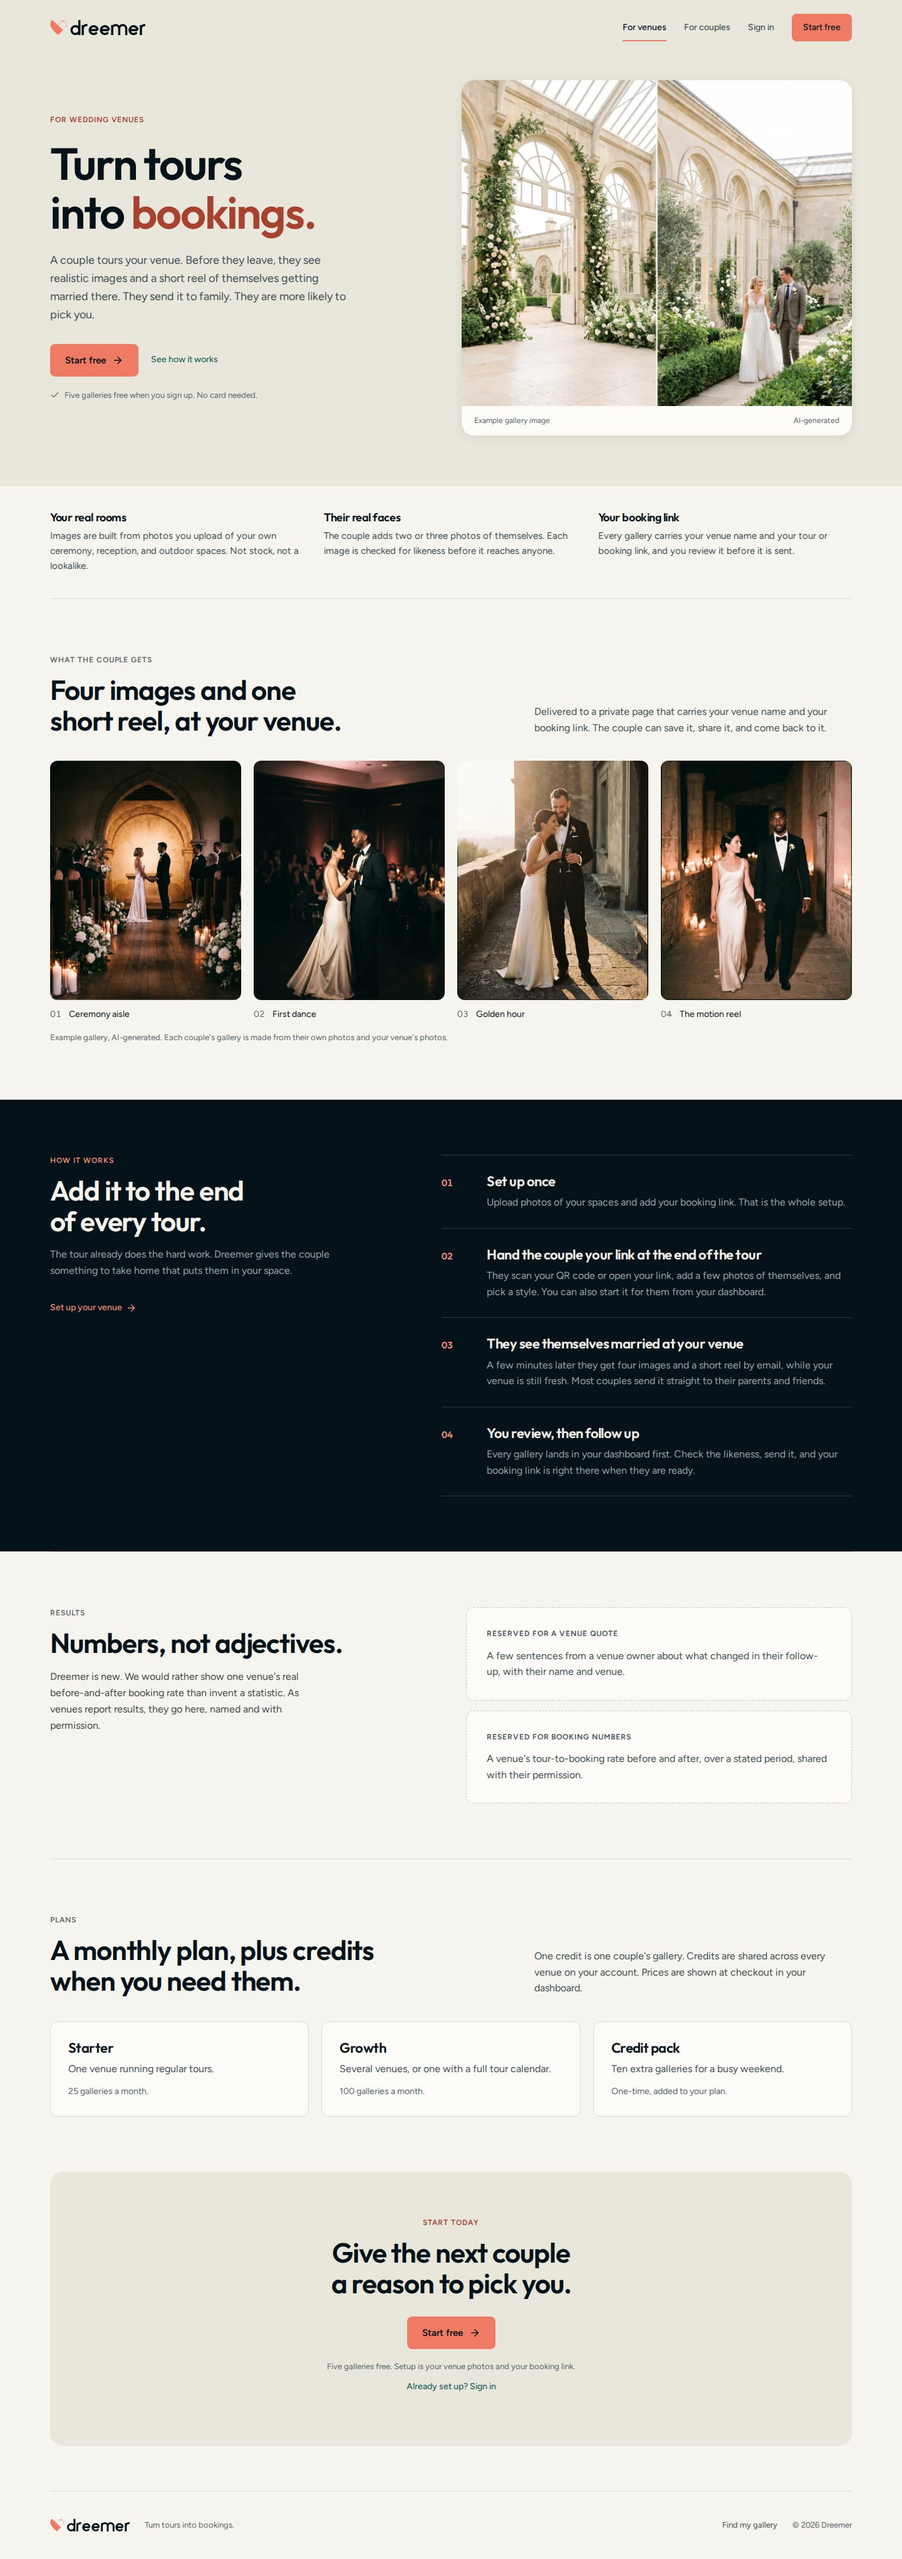
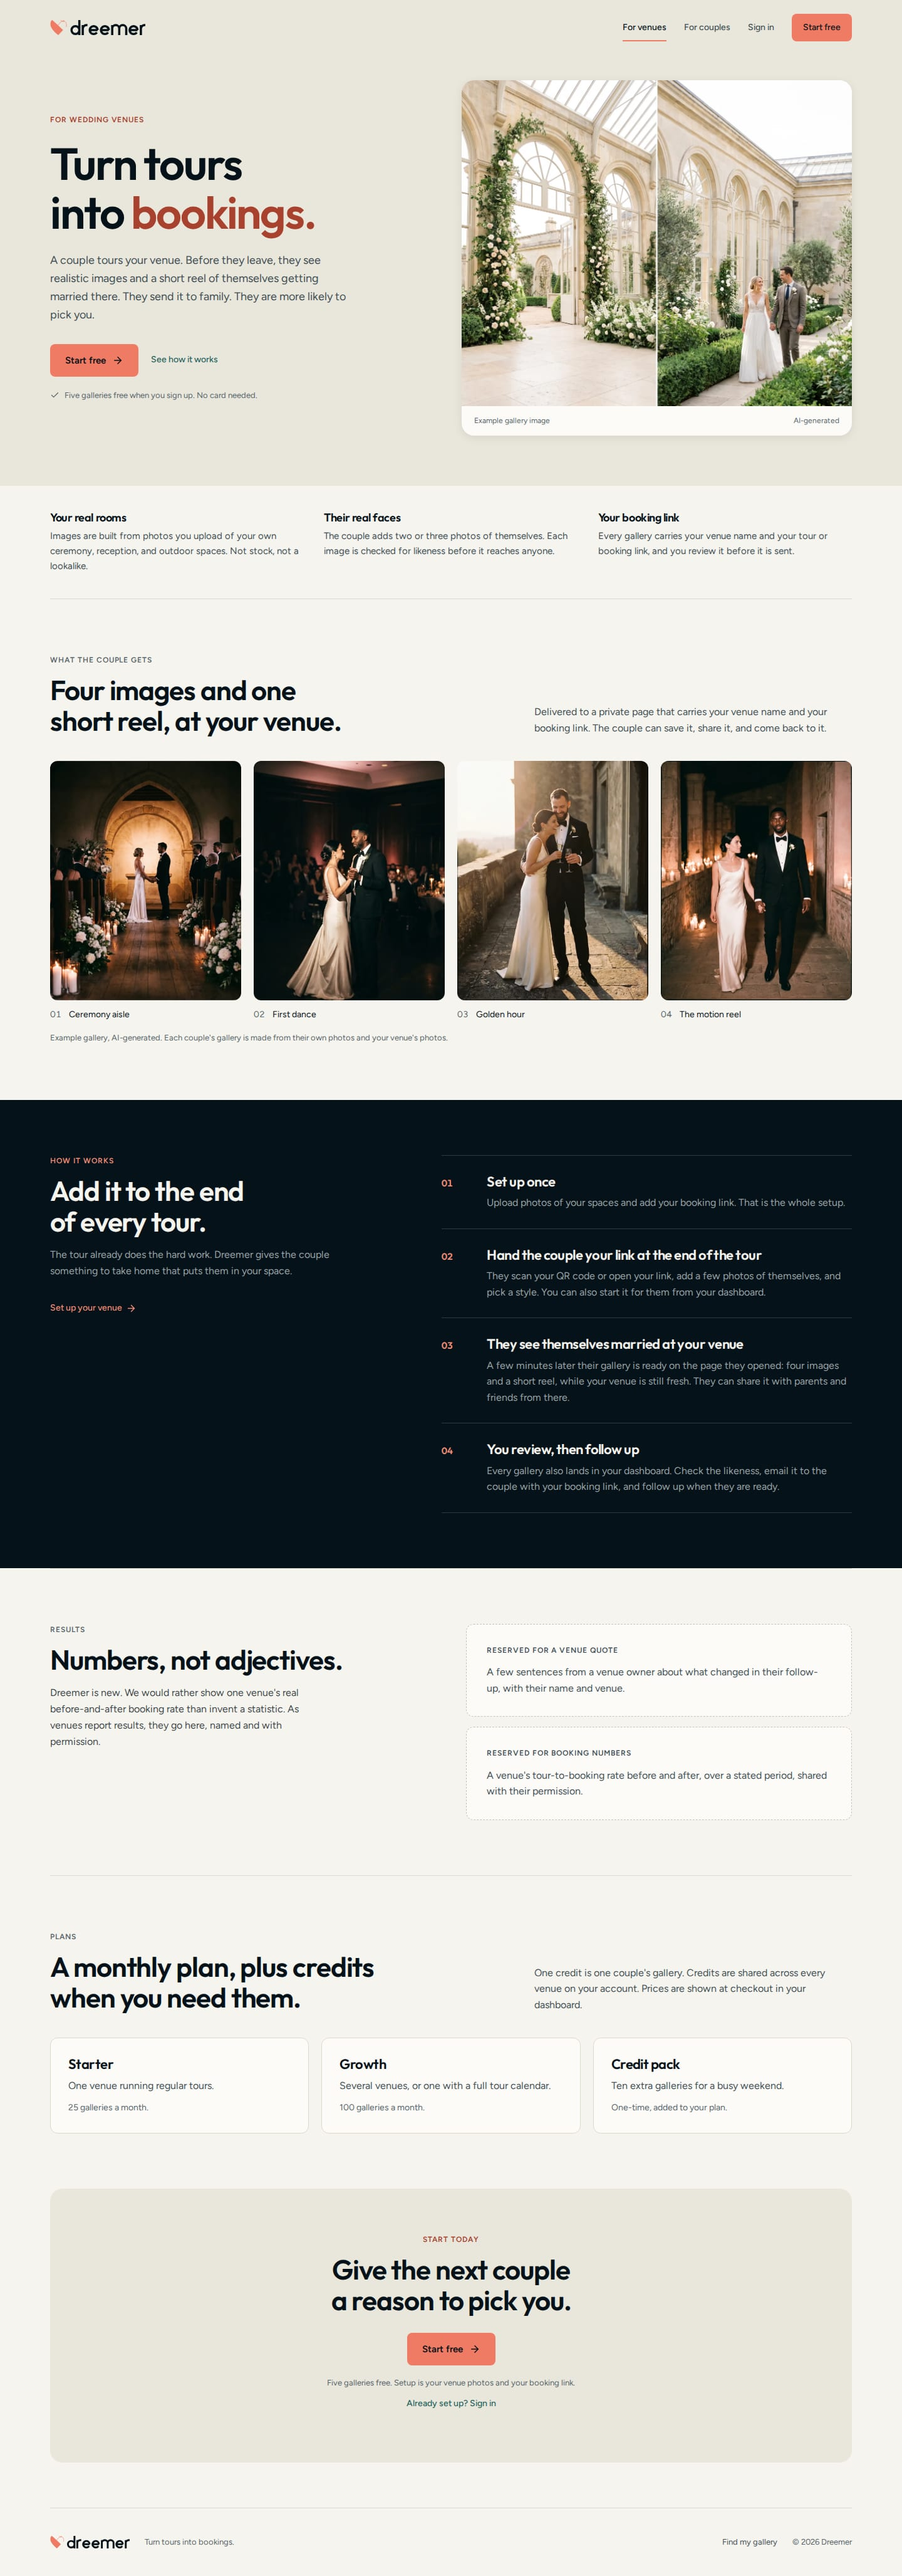
web: keep the landing page inside <main>; stop promising an automatic couple email
Galleries are never auto-sent to the couple (galleryGeneration.ts notifies
the venue owner only, who reviews and sends from the dashboard). The
processing screen, couple flow, couple entry, landing steps, and dashboard
copy now say so. The landing page's main landmark now wraps every
primary-content section, not just the hero. After screenshots retaken.

Claude-Session: https://claude.ai/code/session_01PtuXADma6S36rhr5WUnuBF

diff --git a/artifacts/wedding-app/src/pages/VenueLandingPage.tsx b/artifacts/wedding-app/src/pages/VenueLandingPage.tsx
@@ -39,11 +39,11 @@ const STEPS = [
   },
   {
     title: "They see themselves married at your venue",
-    body: "A few minutes later they get four images and a short reel by email, while your venue is still fresh. Most couples send it straight to their parents and friends.",
+    body: "A few minutes later their gallery is ready on the page they opened: four images and a short reel, while your venue is still fresh. They can share it with parents and friends from there.",
   },
   {
     title: "You review, then follow up",
-    body: "Every gallery lands in your dashboard first. Check the likeness, send it, and your booking link is right there when they are ready.",
+    body: "Every gallery also lands in your dashboard. Check the likeness, email it to the couple with your booking link, and follow up when they are ready.",
   },
 ] as const;
 
@@ -82,7 +82,9 @@ export default function VenueLandingPage() {
     <div className="site-page">
       <div className="hero-band">
         <SiteHeader />
-        <main id="main-content">
+      </div>
+      <main id="main-content">
+        <div className="hero-band">
           <section className="venue-hero page-width">
             <div className="hero-copy">
               <p className="eyebrow">For wedding venues</p>
@@ -92,10 +94,9 @@ export default function VenueLandingPage() {
                 into <em>bookings.</em>
               </h1>
               <p className="hero-description">
-                A couple tours your venue. Before they leave, they see
-                realistic images and a short reel of themselves getting
-                married there. They send it to family. They are more likely
-                to pick you.
+                A couple tours your venue. Before they leave, they see realistic
+                images and a short reel of themselves getting married there.
+                They send it to family. They are more likely to pick you.
               </p>
               <div className="action-row">
                 <Link
@@ -128,144 +129,160 @@ export default function VenueLandingPage() {
               </figcaption>
             </figure>
           </section>
-        </main>
-      </div>
-
-      <section className="value-strip page-width" aria-label="What makes it work">
-        <div>
-          {VALUE_POINTS.map((point) => (
-            <div key={point.title}>
-              <h3>{point.title}</h3>
-              <p>{point.body}</p>
-            </div>
-          ))}
         </div>
-      </section>
 
-      <section id="experience" className="page-width section">
-        <div className="section-heading">
+        <section
+          className="value-strip page-width"
+          aria-label="What makes it work"
+        >
           <div>
-            <p className="eyebrow">What the couple gets</p>
-            <h2>Four images and one short reel, at your venue.</h2>
-          </div>
-          <p>
-            Delivered to a private page that carries your venue name and your
-            booking link. The couple can save it, share it, and come back to
-            it.
-          </p>
-        </div>
-        <div className="sample-gallery">
-          {GALLERY_FRAMES.map((frame, i) => (
-            <figure key={frame.index}>
-              <img
-                src={frame.src}
-                alt={frame.alt}
-                loading="lazy"
-                width="600"
-                height="750"
-              />
-              <figcaption>
-                <span>0{i + 1}</span>
-                {frame.label}
-              </figcaption>
-            </figure>
-          ))}
-        </div>
-        <p className="caption">
-          Example gallery, AI-generated. Each couple's gallery is made from
-          their own photos and your venue's photos.
-        </p>
-      </section>
-
-      <section id="how-it-works" className="ink-section">
-        <div className="how-section page-width">
-          <div>
-            <p className="eyebrow">How it works</p>
-            <h2>Add it to the end of every tour.</h2>
-            <p className="mt-4 max-w-md text-base leading-relaxed">
-              The tour already does the hard work. Dreemer gives the couple
-              something to take home that puts them in your space.
-            </p>
-            <Link href="/create-venue" className="text-link mt-6">
-              Set up your venue <ArrowRight size={17} />
-            </Link>
-          </div>
-          <ol className="journey-list">
-            {STEPS.map((step, i) => (
-              <li key={step.title}>
-                <span>0{i + 1}</span>
-                <div>
-                  <h3>{step.title}</h3>
-                  <p>{step.body}</p>
-                </div>
-              </li>
-            ))}
-          </ol>
-        </div>
-      </section>
-
-      <section className="proof-section page-width" aria-labelledby="proof-heading">
-        <div className="proof-grid">
-          <div>
-            <p className="eyebrow">Results</p>
-            <h2 id="proof-heading">Numbers, not adjectives.</h2>
-            <p className="mt-4 max-w-md text-base leading-relaxed text-foreground/80">
-              Dreemer is new. We would rather show one venue's real
-              before-and-after booking rate than invent a statistic. As venues
-              report results, they go here, named and with permission.
-            </p>
-          </div>
-          <div className="grid gap-4">
-            {PROOF_SLOTS.map((slot) => (
-              <div key={slot.label} className="proof-slot">
-                <p className="eyebrow">{slot.label}</p>
-                <p>{slot.body}</p>
+            {VALUE_POINTS.map((point) => (
+              <div key={point.title}>
+                <h3>{point.title}</h3>
+                <p>{point.body}</p>
               </div>
             ))}
           </div>
-        </div>
-      </section>
+        </section>
 
-      <section className="plans-section page-width" aria-labelledby="plans-heading">
-        <div className="section-heading">
-          <div>
-            <p className="eyebrow">Plans</p>
-            <h2 id="plans-heading">A monthly plan, plus credits when you need them.</h2>
+        <section id="experience" className="page-width section">
+          <div className="section-heading">
+            <div>
+              <p className="eyebrow">What the couple gets</p>
+              <h2>Four images and one short reel, at your venue.</h2>
+            </div>
+            <p>
+              Delivered to a private page that carries your venue name and your
+              booking link. The couple can save it, share it, and come back to
+              it.
+            </p>
           </div>
-          <p>
-            One credit is one couple's gallery. Credits are shared across every
-            venue on your account. Prices are shown at checkout in your
-            dashboard.
+          <div className="sample-gallery">
+            {GALLERY_FRAMES.map((frame, i) => (
+              <figure key={frame.index}>
+                <img
+                  src={frame.src}
+                  alt={frame.alt}
+                  loading="lazy"
+                  width="600"
+                  height="750"
+                />
+                <figcaption>
+                  <span>0{i + 1}</span>
+                  {frame.label}
+                </figcaption>
+              </figure>
+            ))}
+          </div>
+          <p className="caption">
+            Example gallery, AI-generated. Each couple's gallery is made from
+            their own photos and your venue's photos.
           </p>
-        </div>
-        <ul>
-          {PLANS.map((plan) => (
-            <li key={plan.name}>
-              <h3>{plan.name}</h3>
-              <p>{plan.body}</p>
-              <p>{plan.detail}</p>
-            </li>
-          ))}
-        </ul>
-      </section>
+        </section>
 
-      <section className="start-section page-width">
-        <p className="eyebrow">Start today</p>
-        <h2>Give the next couple a reason to pick you.</h2>
-        <Link
-          href="/create-venue"
-          className="action-primary"
-          data-testid="venue-trial-register"
+        <section id="how-it-works" className="ink-section">
+          <div className="how-section page-width">
+            <div>
+              <p className="eyebrow">How it works</p>
+              <h2>Add it to the end of every tour.</h2>
+              <p className="mt-4 max-w-md text-base leading-relaxed">
+                The tour already does the hard work. Dreemer gives the couple
+                something to take home that puts them in your space.
+              </p>
+              <Link href="/create-venue" className="text-link mt-6">
+                Set up your venue <ArrowRight size={17} />
+              </Link>
+            </div>
+            <ol className="journey-list">
+              {STEPS.map((step, i) => (
+                <li key={step.title}>
+                  <span>0{i + 1}</span>
+                  <div>
+                    <h3>{step.title}</h3>
+                    <p>{step.body}</p>
+                  </div>
+                </li>
+              ))}
+            </ol>
+          </div>
+        </section>
+
+        <section
+          className="proof-section page-width"
+          aria-labelledby="proof-heading"
         >
-          Start free <ArrowRight size={18} />
-        </Link>
-        <p className="caption">
-          Five galleries free. Setup is your venue photos and your booking link.
-        </p>
-        <Link href="/login" className="text-link" data-testid="venue-trial-sign-in">
-          Already set up? Sign in
-        </Link>
-      </section>
+          <div className="proof-grid">
+            <div>
+              <p className="eyebrow">Results</p>
+              <h2 id="proof-heading">Numbers, not adjectives.</h2>
+              <p className="mt-4 max-w-md text-base leading-relaxed text-foreground/80">
+                Dreemer is new. We would rather show one venue's real
+                before-and-after booking rate than invent a statistic. As venues
+                report results, they go here, named and with permission.
+              </p>
+            </div>
+            <div className="grid gap-4">
+              {PROOF_SLOTS.map((slot) => (
+                <div key={slot.label} className="proof-slot">
+                  <p className="eyebrow">{slot.label}</p>
+                  <p>{slot.body}</p>
+                </div>
+              ))}
+            </div>
+          </div>
+        </section>
+
+        <section
+          className="plans-section page-width"
+          aria-labelledby="plans-heading"
+        >
+          <div className="section-heading">
+            <div>
+              <p className="eyebrow">Plans</p>
+              <h2 id="plans-heading">
+                A monthly plan, plus credits when you need them.
+              </h2>
+            </div>
+            <p>
+              One credit is one couple's gallery. Credits are shared across
+              every venue on your account. Prices are shown at checkout in your
+              dashboard.
+            </p>
+          </div>
+          <ul>
+            {PLANS.map((plan) => (
+              <li key={plan.name}>
+                <h3>{plan.name}</h3>
+                <p>{plan.body}</p>
+                <p>{plan.detail}</p>
+              </li>
+            ))}
+          </ul>
+        </section>
+
+        <section className="start-section page-width">
+          <p className="eyebrow">Start today</p>
+          <h2>Give the next couple a reason to pick you.</h2>
+          <Link
+            href="/create-venue"
+            className="action-primary"
+            data-testid="venue-trial-register"
+          >
+            Start free <ArrowRight size={18} />
+          </Link>
+          <p className="caption">
+            Five galleries free. Setup is your venue photos and your booking
+            link.
+          </p>
+          <Link
+            href="/login"
+            className="text-link"
+            data-testid="venue-trial-sign-in"
+          >
+            Already set up? Sign in
+          </Link>
+        </section>
+      </main>
       <SiteFooter />
     </div>
   );

diff --git a/artifacts/wedding-app/src/pages/VenueOwnerPage.tsx b/artifacts/wedding-app/src/pages/VenueOwnerPage.tsx
@@ -491,7 +491,7 @@ function DashboardInner() {
     if (!/^[^\s@]+@[^\s@]+\.[^\s@]+$/.test(coupleEmail.trim())) {
       toast({
         title: "Couple email required",
-        description: "This is where Dreemer sends the finished gallery.",
+        description: "You’ll email the finished gallery to this address.",
         variant: "destructive",
       });
       return;
@@ -533,7 +533,7 @@ function DashboardInner() {
           onSuccess: () => {
             toast({
               title: "Gallery started",
-              description: "We’ll email the couple when it’s ready to view.",
+              description: "We’ll email you when it’s ready to review.",
             });
             resetCoupleIntake();
             void dashboard.refetch();
@@ -878,8 +878,8 @@ function DashboardInner() {
                   Create a couple’s gallery
                 </h2>
                 <p className="mt-2 text-sm leading-relaxed text-muted-foreground">
-                  Add the couple’s email and two or three photos of them. We
-                  email their private link when the gallery is ready.
+                  Add the couple’s email and two or three photos of them. When
+                  it’s ready, review it here and email them their private link.
                 </p>
               </div>
 

diff --git a/artifacts/wedding-app/src/pages/CouplePage.tsx b/artifacts/wedding-app/src/pages/CouplePage.tsx
@@ -406,7 +406,7 @@ function VenueShowcase({ venue, onNext }: VenueShowcaseProps) {
         </p>
         <p className="text-sm">
           Add a few photos, pick a style, and get four images and a short reel
-          by email in a few minutes.
+          in a few minutes.
         </p>
         <Button onClick={onNext} data-testid="visualize-cta">
           Start our gallery <ArrowRight />
@@ -777,8 +777,8 @@ function StyleStep({
               Four images and a short reel
             </div>
             <div className="text-base text-muted-foreground leading-relaxed">
-              Made at this venue from your photos, sent to your email. Usually
-              ready in a few minutes.
+              Made at this venue from your photos. Usually ready in a few
+              minutes, right on this page.
             </div>
           </div>
         </div>

diff --git a/artifacts/wedding-app/src/pages/GallerySharePage.tsx b/artifacts/wedding-app/src/pages/GallerySharePage.tsx
@@ -277,7 +277,7 @@ function ProcessingView({ session }: { session: SessionDetailResponse }) {
           <h1>A few minutes, then it’s yours.</h1>
           <p>
             We’re making your images at {session.venue?.name || "your venue"},
-            then your reel. We’ll email you when they’re ready.
+            then your reel. Keep this link. The page updates on its own.
           </p>
         </aside>
         <section className="form-content" role="status">

diff --git a/artifacts/wedding-app/src/pages/LandingPage.tsx b/artifacts/wedding-app/src/pages/LandingPage.tsx
@@ -75,7 +75,7 @@ export default function LandingPage() {
               <span>02</span> Choose your style
             </li>
             <li>
-              <span>03</span> Get your gallery by email
+              <span>03</span> See your gallery
             </li>
           </ol>
         </section>
